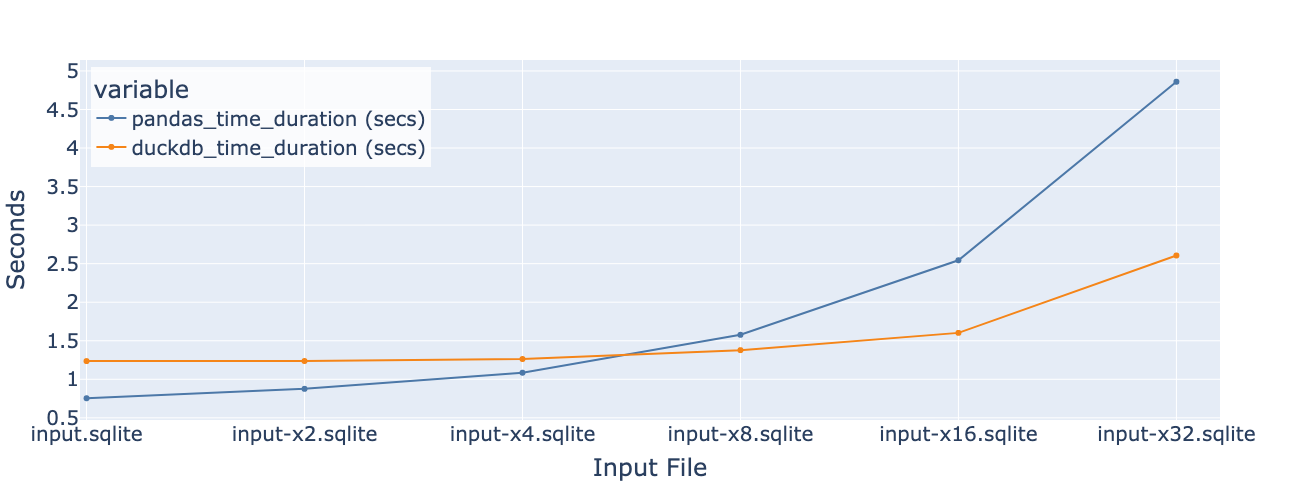
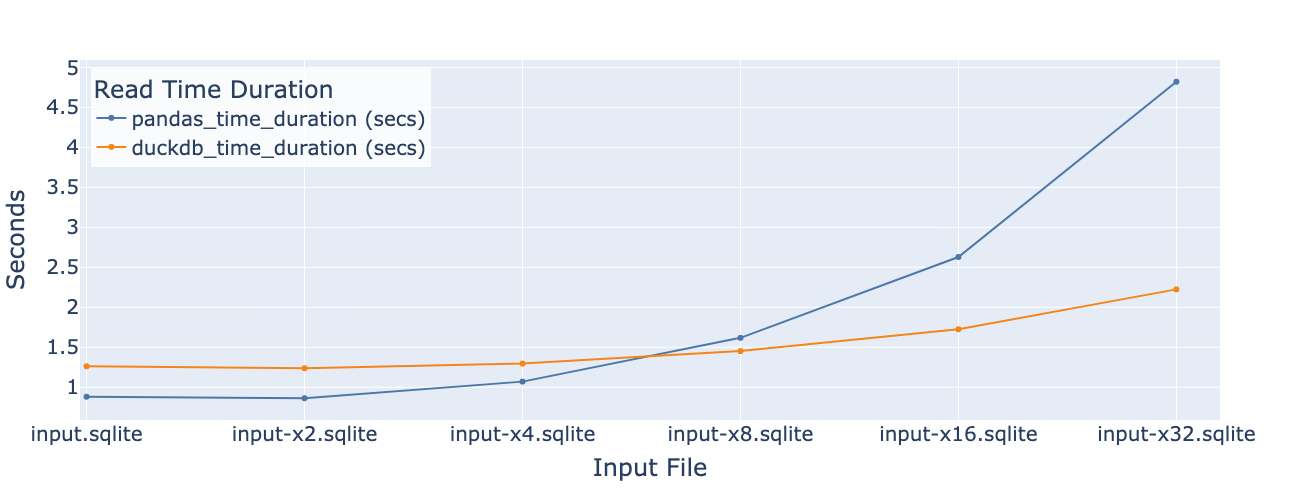
retitle legend for duckdb analysis charts (#4)

diff --git a/notebooks/duckdb_analysis.py b/notebooks/duckdb_analysis.py
@@ -158,6 +158,7 @@ fig = px.line(
     color_discrete_sequence=px.colors.qualitative.T10,
 )
 fig.update_layout(
+    legend_title_text="Read Time Duration",
     legend=dict(x=0.01, y=0.98, bgcolor="rgba(255,255,255,0.8)"),
     font=dict(
         size=20,  # global font size
@@ -185,6 +186,7 @@ fig = px.bar(
     color_discrete_sequence=px.colors.qualitative.T10,
 )
 fig.update_layout(
+    legend_title_text="In-memory Data Size",
     legend=dict(x=0.58, y=0.02, bgcolor="rgba(255,255,255,0.8)"),
     font=dict(
         size=20,  # global font size
